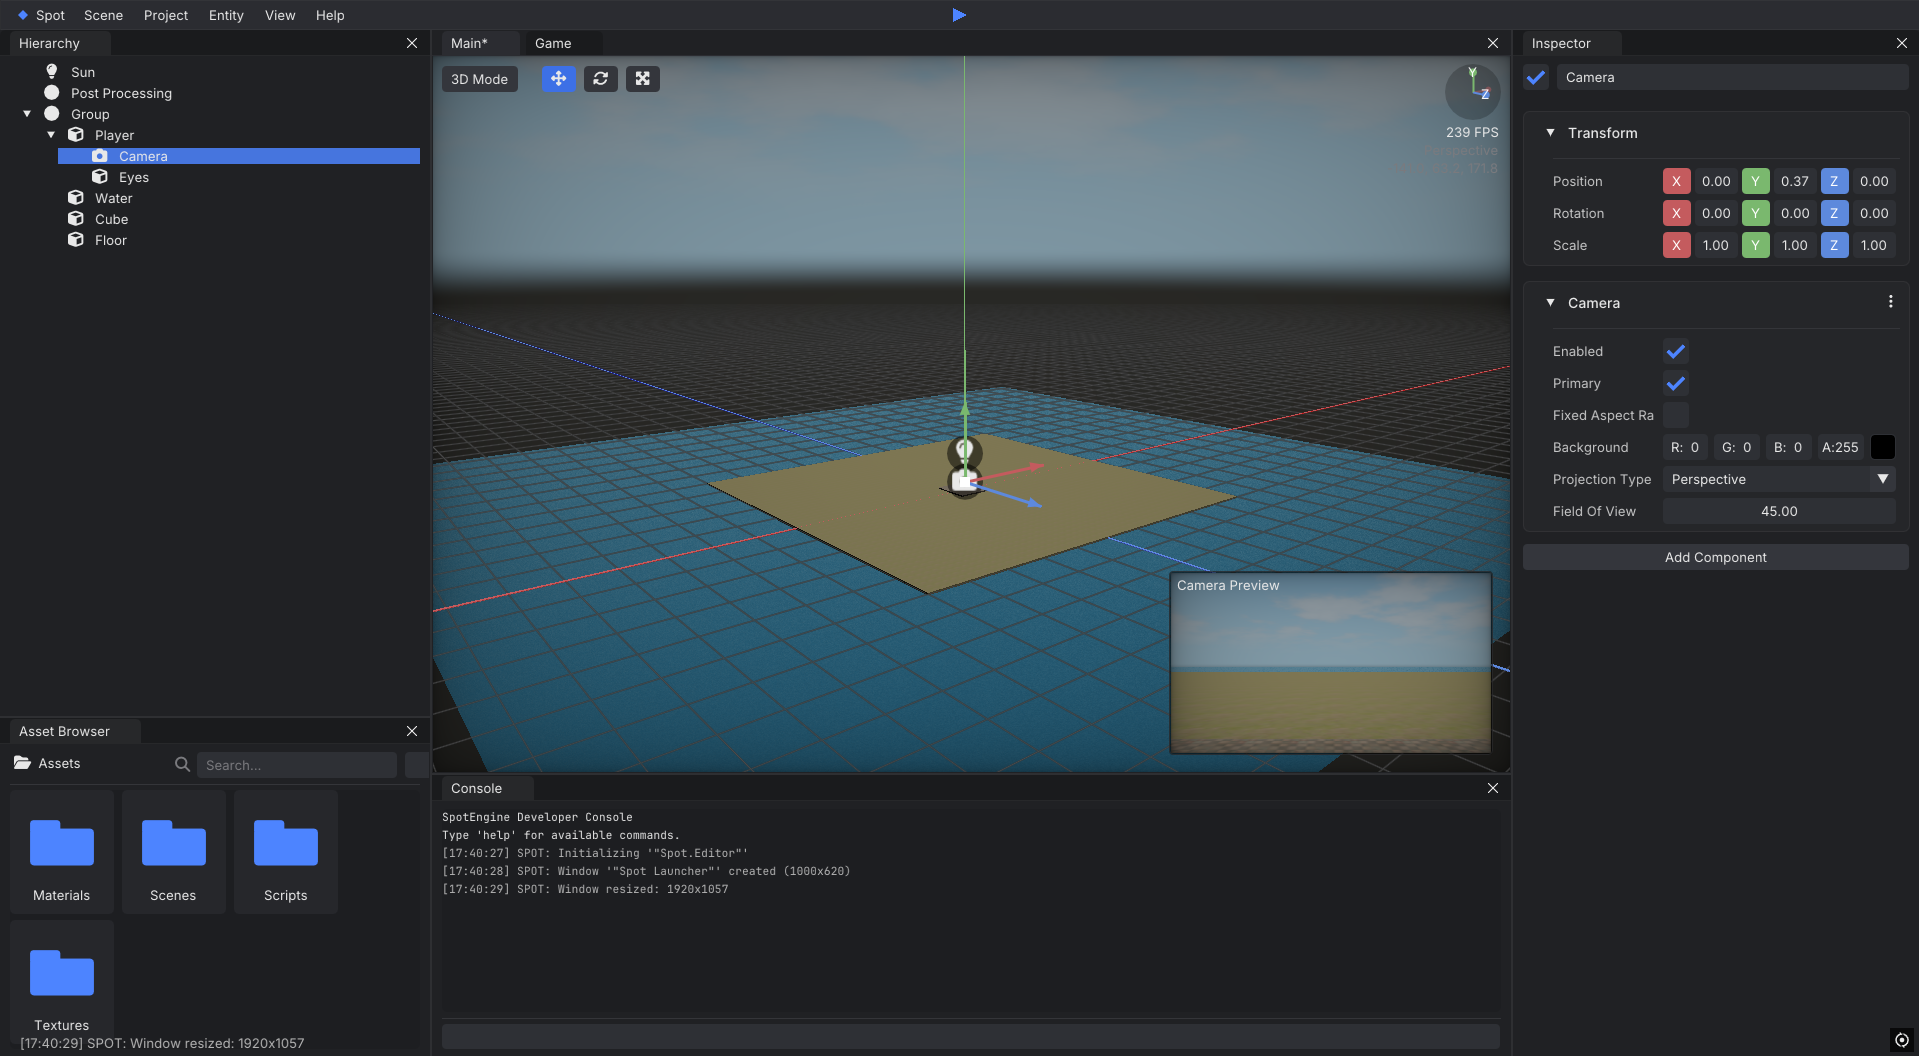
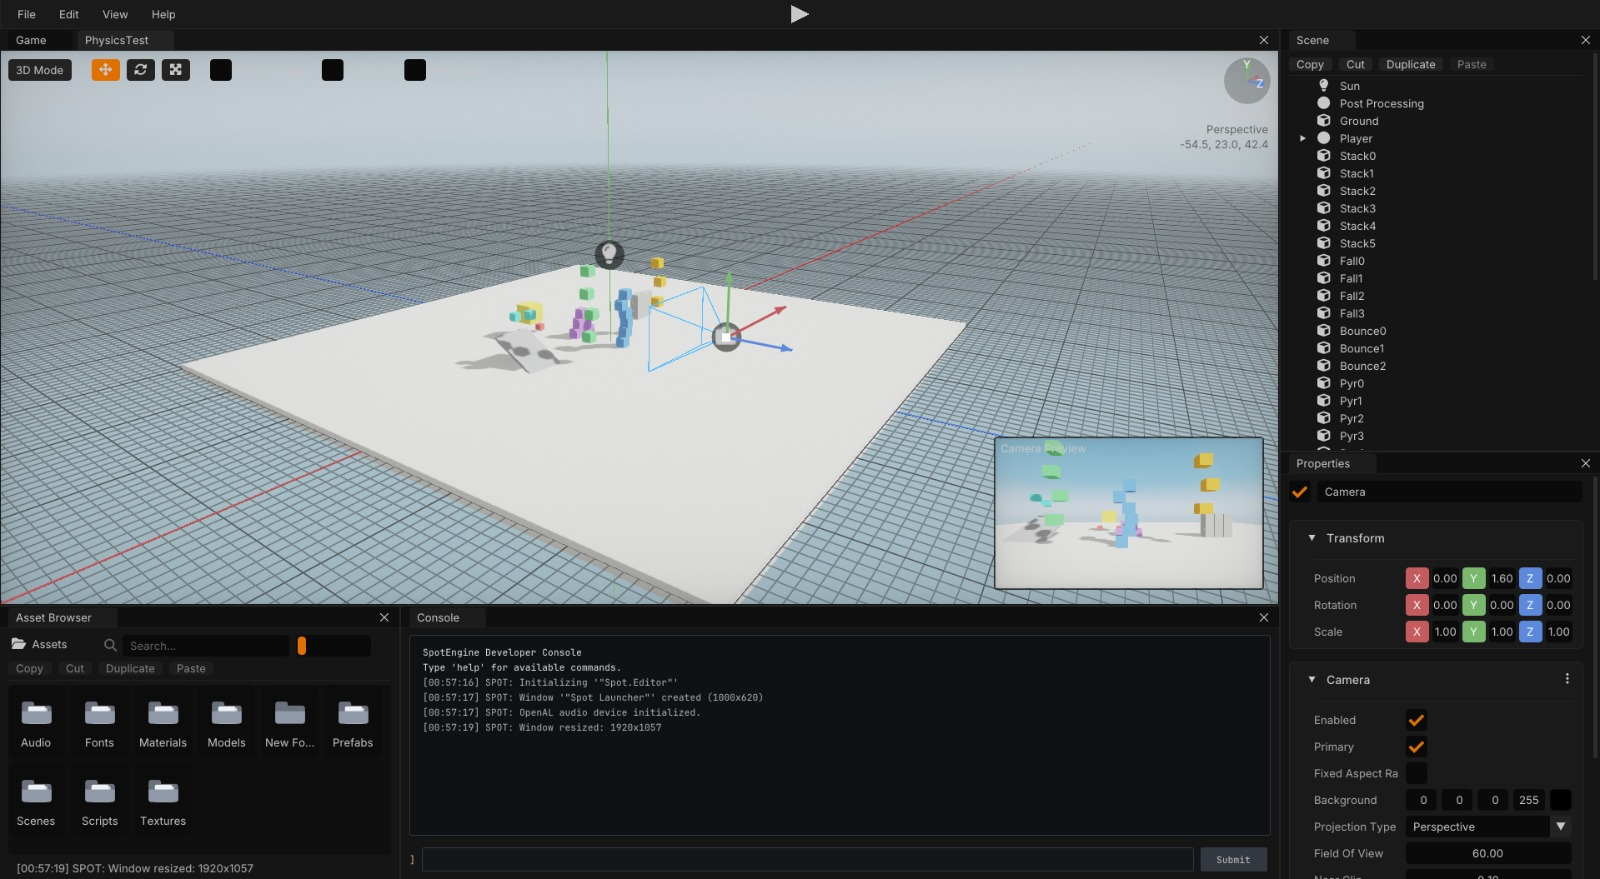
Update README

diff --git a/README.md b/README.md
@@ -22,7 +22,7 @@ dotnet build SpotEngine.slnx
 
 ```bash
 dotnet run --project editor    # launch the editor
-dotnet run --project game      # run the sample game
+dotnet run --project sandbox/Sandbox.csproj      # run the sandbox project
 ```
 
 ## The `spot` CLI
